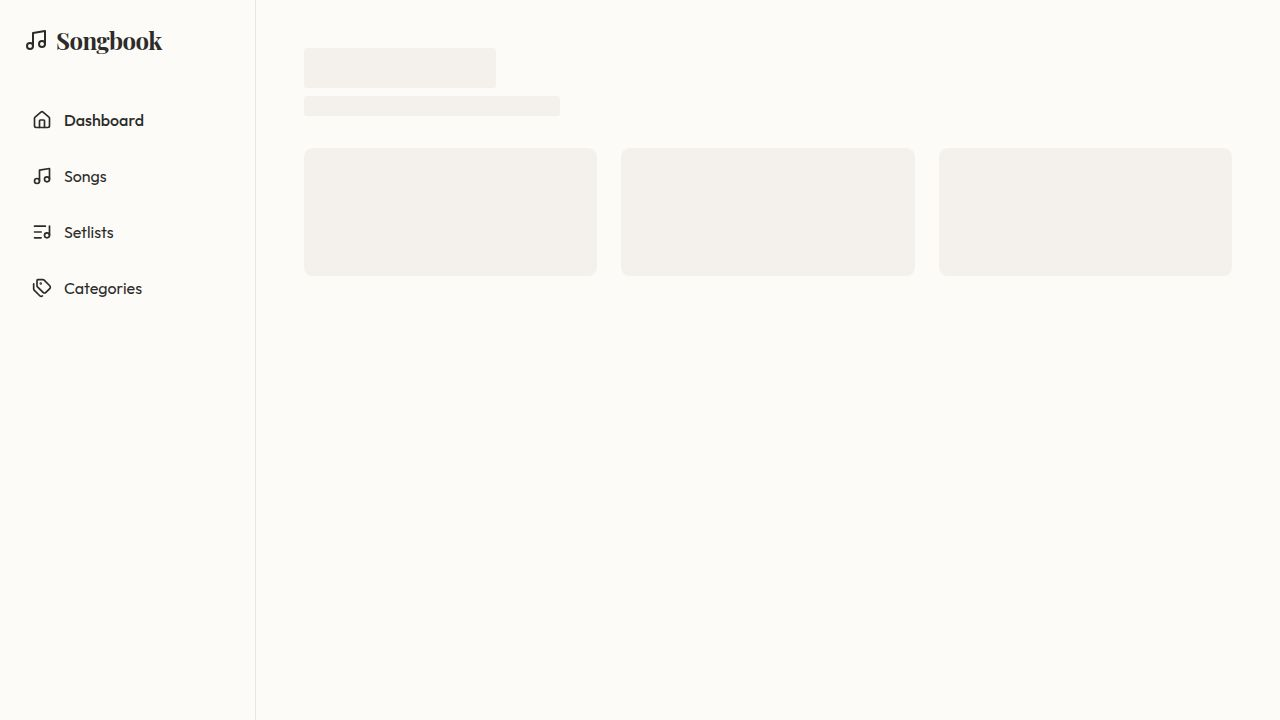
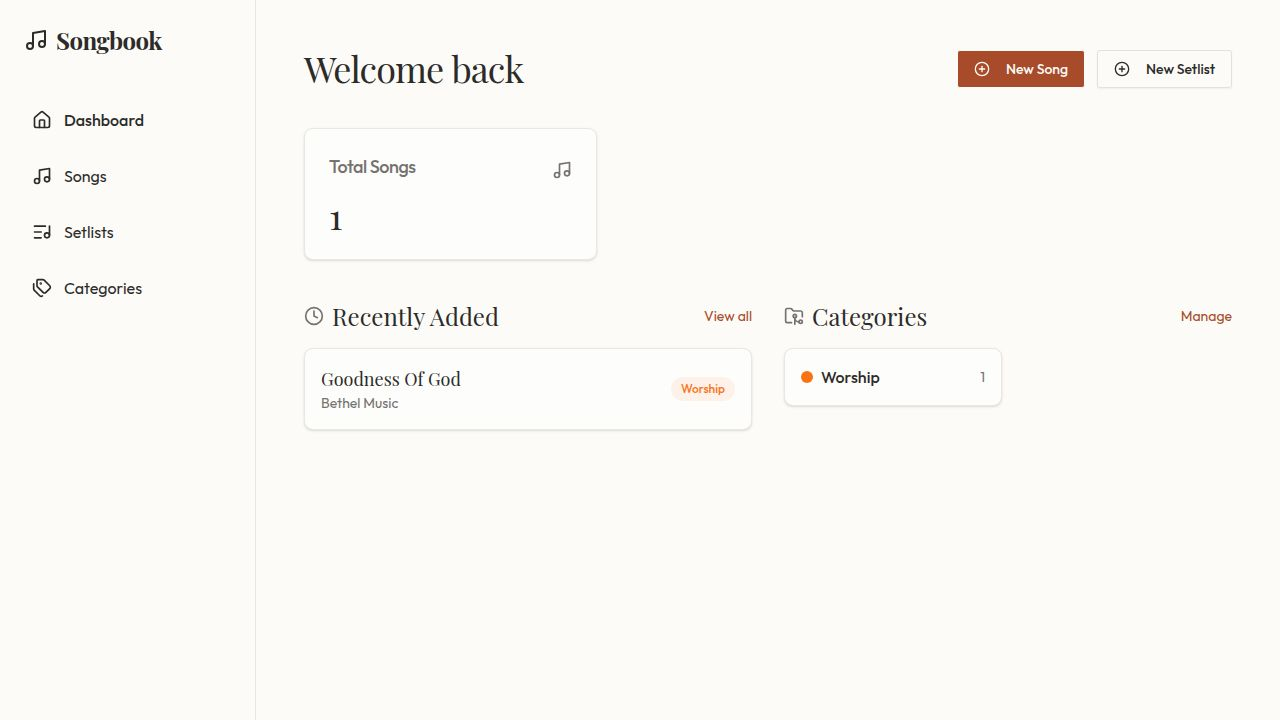
Add artist field to song versions for better organization
Updates database schema, API definitions, and UI components to include an artist field for song versions, enabling better organization and searchability.

Replit-Commit-Author: Agent
Replit-Commit-Session-Id: 853e1cff-df48-40e3-84b3-577d78a97a66
Replit-Commit-Checkpoint-Type: full_checkpoint
Replit-Commit-Event-Id: c3b9087f-3cfe-4c6e-aac4-9509a9640ff9
Replit-Commit-Screenshot-Url: https://storage.googleapis.com/screenshot-production-us-central1/f70ffe0a-6efd-4d17-9efb-0ec38a9add05/853e1cff-df48-40e3-84b3-577d78a97a66/c2tQsyO
Replit-Helium-Checkpoint-Created: true

diff --git a/artifacts/songbook/src/components/song-versions.tsx b/artifacts/songbook/src/components/song-versions.tsx
@@ -40,6 +40,7 @@ import { useToast } from "@/hooks/use-toast";
 const versionSchema = z.object({
   name: z.string().min(1, "Language is required"),
   title: z.string().optional(),
+  artist: z.string().optional(),
   lyrics: z.string().optional(),
   chords: z.string().optional(),
   key: z.string().optional(),
@@ -63,6 +64,7 @@ function VersionForm({ songId, editing, onClose }: VersionFormProps) {
     defaultValues: {
       name: editing?.name ?? "",
       title: editing?.title ?? "",
+      artist: editing?.artist ?? "",
       lyrics: editing?.lyrics ?? "",
       chords: editing?.chords ?? "",
       key: editing?.key ?? "",
@@ -113,6 +115,19 @@ function VersionForm({ songId, editing, onClose }: VersionFormProps) {
                   <FormLabel>Title in this language</FormLabel>
                   <FormControl>
                     <Input placeholder="Leave blank to use the main title" {...field} className="text-lg bg-card" />
+                  </FormControl>
+                  <FormMessage />
+                </FormItem>
+              )}
+            />
+            <FormField
+              control={form.control}
+              name="artist"
+              render={({ field }) => (
+                <FormItem>
+                  <FormLabel>Artist</FormLabel>
+                  <FormControl>
+                    <Input placeholder="e.g. Leonard Cohen" {...field} className="bg-card" />
                   </FormControl>
                   <FormMessage />
                 </FormItem>

diff --git a/lib/db/src/schema/songs.ts b/lib/db/src/schema/songs.ts
@@ -29,6 +29,7 @@ export const songVersionsTable = pgTable("song_versions", {
   songId: integer("song_id").notNull().references(() => songsTable.id, { onDelete: "cascade" }),
   name: text("name").notNull(),
   title: text("title"),
+  artist: text("artist"),
   lyrics: text("lyrics"),
   chords: text("chords"),
   key: text("key"),